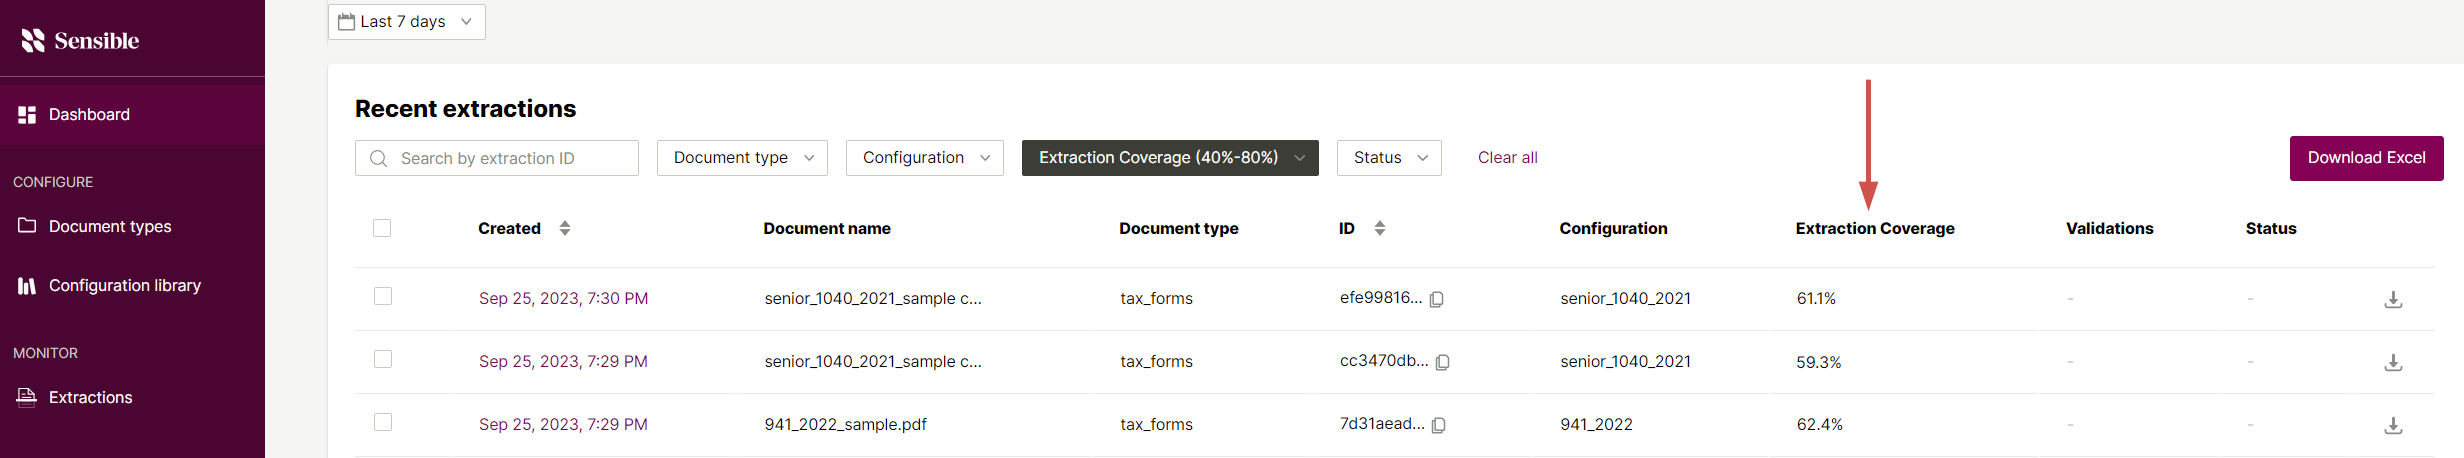
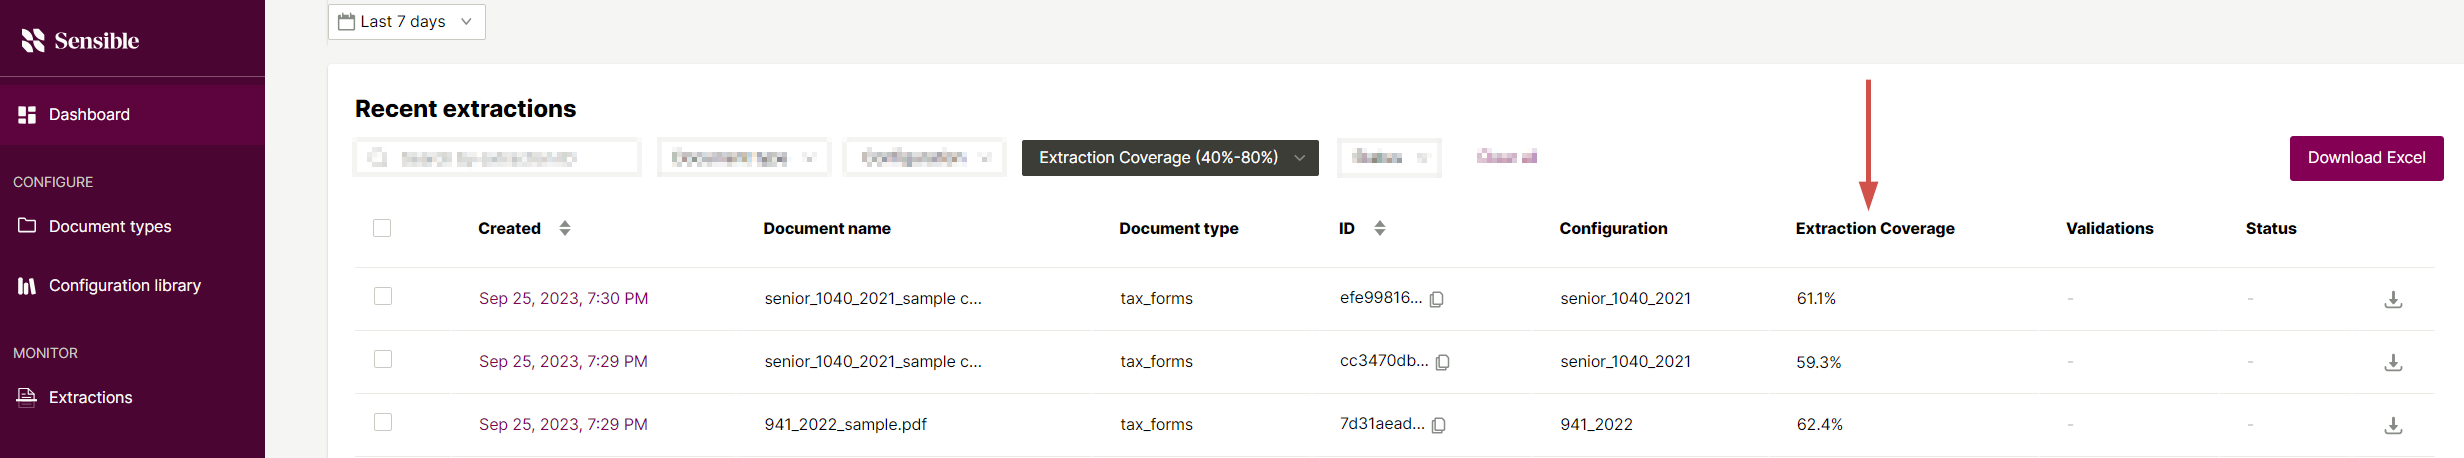
batch filter

Changed region(s): [[0.125, 0.3057, 0.4062, 0.3668], [0.5312, 0.3057, 0.625, 0.3668]]

diff --git a/readme-sync/v0/best-practices/0300 - metrics.md b/readme-sync/v0/best-practices/0300 - metrics.md
@@ -14,13 +14,19 @@ Extraction coverage
 
 Extraction coverage measures how fully an extraction captures your target data from the document. For example, a coverage score of 70% for an extraction with no validation errors means that 30% of output fields are null. A low percentage can indicate a poor-quality extraction. Or, it can indicate that your documents contain sparse data. For example, if you define many target fields to extract from a supplemental insurance form, but applicants leave most of the questions blank, then the form's expected average extraction coverage is much less than 100%.
 
-Since coverage success criteria can vary by document type, you can set your own ranges for each document type in the Sensible app. To set ranges for coverage for past extractions, click **Dashboard** and scroll to the **Extraction coverage** section. In the section, configure date range, document type, and extraction coverage range filters:
+Since coverage success criteria can vary by document type, you can set your own ranges for each document type in the Sensible app. To set ranges for coverage for past extractions, click **Dashboard** and scroll to the **Extraction coverage** section. In the section, you can filter by:
+
+- extraction coverage range
+- extraction ID
+- date range
+- document type
+- extraction batch
 
 ![Click to enlarge](https://raw.githubusercontent.com/sensible-hq/sensible-docs/main/readme-sync/assets/v0/images/final/dashboard_coverage.png)
 
 In the preceding screenshot, 0 out of 16 extractions that used the `wells_fargo_savings` configuration in the `bank_statements` document type in the past 7 days scored in the coverage range of 60% -100%.
 
-To determine your own coverage criteria, examine your past extractions. For example, if you find that home inspectors typically report about 60 out of your 100 target data points, you can set a range of 60%-100% for your `home_inspection_report` document type to assess extraction success. In contrast, if you find that drivers licenses typically contain all your target data points, you can set a range of 95%-100% or even 100%-100% to assess extraction success for the `drivers_license` document type.
+To determine your own coverage criteria, examine your past extractions. For example, if home inspectors typically report about 60 out of your 100 target data points, you can set a range of 60%-100% for your `home_inspection_report` document type to assess extraction success. In contrast, if you find that drivers licenses typically contain all your target data points, you can set a range of 95%-100% or even 100%-100% to assess extraction success for the `drivers_license` document type.
 
 To view an individual extraction's coverage score, click **Dashboard** and scroll to the **Recent** section:
 

diff --git a/readme-sync/v0/welcome/2000 - getting-started-ai.md b/readme-sync/v0/welcome/2000 - getting-started-ai.md
@@ -52,7 +52,7 @@ Take the following steps to create a prompt to extract more data from the docume
 
 ![Click to enlarge](https://raw.githubusercontent.com/sensible-hq/sensible-docs/main/readme-sync/assets/v0/images/final/quickstart_instruct_2.png)
 
-2. Edit the query as shown in the following screenshot by entering `checking account number (not savings)` in the query field. Give the query an ID, `account_num_checking`, then click the **Send** icon:
+2. Edit the query as shown in the following screenshot by entering `checking account number (not savings)` in the query field. Click the **Send** icon. Sensible generates an ID for your query, in this case, `account_num_checking`.
 
 ![Click to enlarge](https://raw.githubusercontent.com/sensible-hq/sensible-docs/main/readme-sync/assets/v0/images/final/quickstart_instruct_3.png)
 
